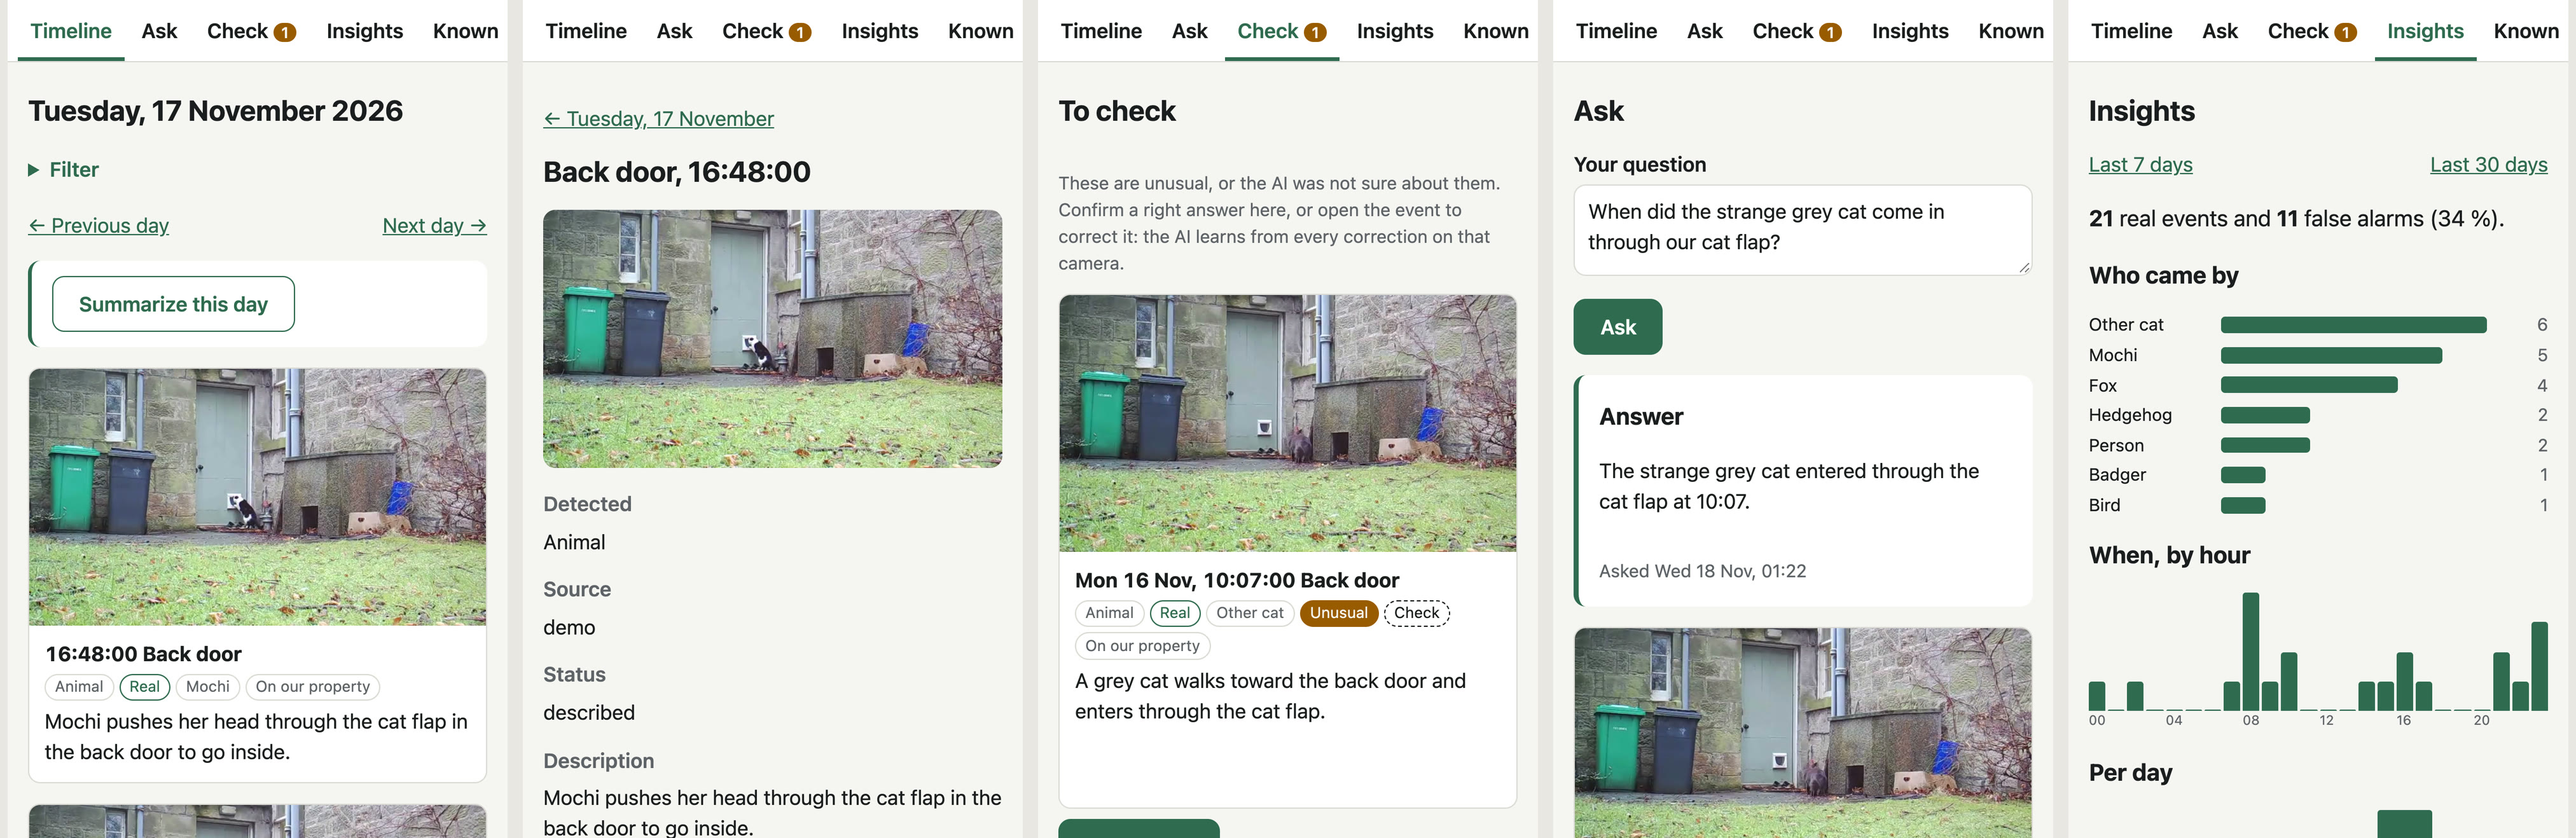
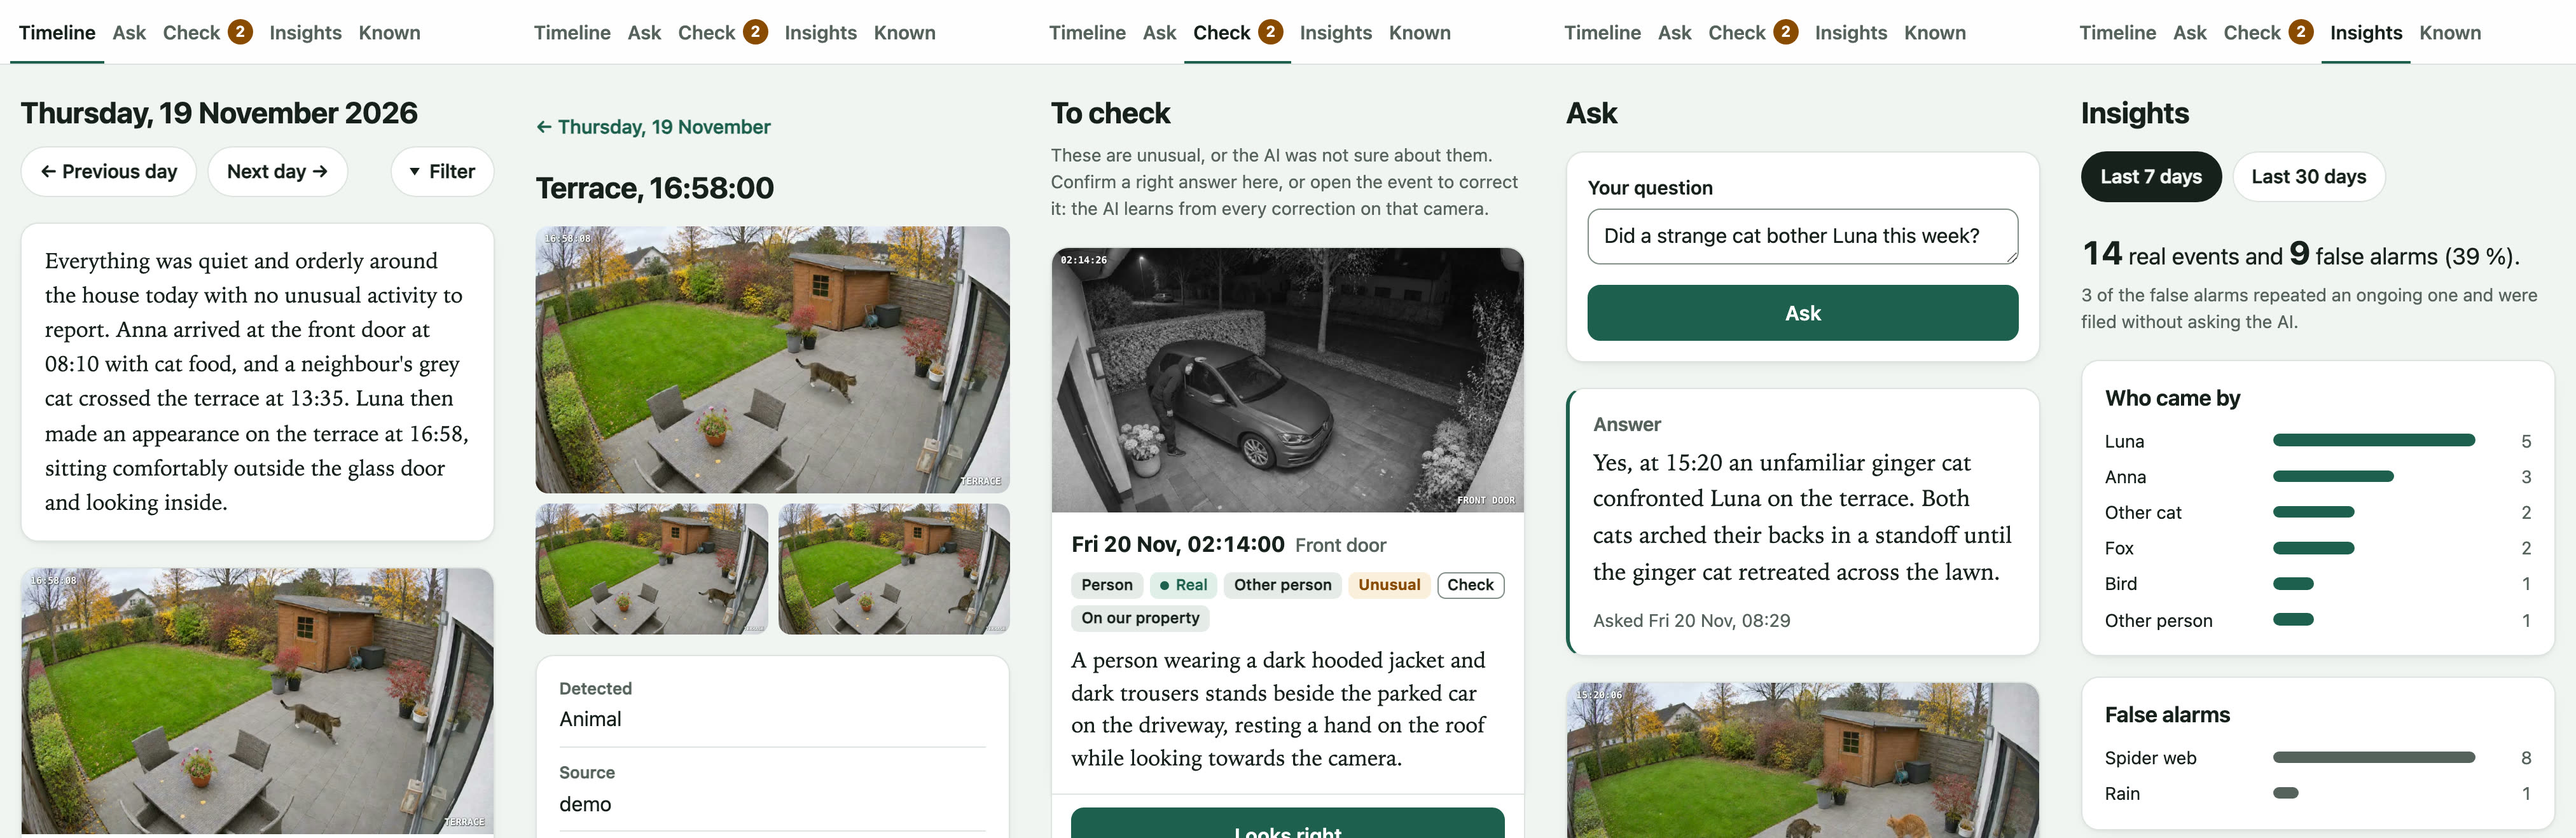
Show the AI home in the README screenshots

diff --git a/README.md b/README.md
@@ -6,7 +6,7 @@ Home cameras send dozens of notifications a day, and many of them are a spider i
 > How often was Luna outside in the last seven days?
 > Which camera has the most false alarms, and why?
 
-![The timeline, an event, the Check page, an answer and the insights on a phone](docs/images/screens.jpg)
+![The timeline with the day's summary, Luna recognised, the Check page with the standoff and the stranger at the car, an answer with its sources, and the insights, on a phone](docs/images/screens.jpg)
 
 Built with [Symfony AI](https://symfony.com/doc/current/ai/index.html) and the [PHP MCP SDK](https://github.com/modelcontextprotocol/php-sdk) for the [Symfony AI & MCP Hackathon](https://symfony.com/hackathon).
 
